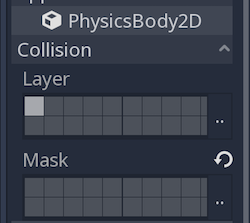
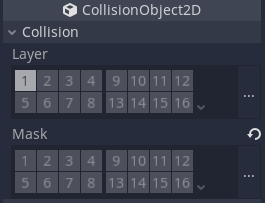
Update instructions for collision mask in Your first 2D game (#5485)

diff --git a/getting_started/first_2d_game/04.creating_the_enemy.rst b/getting_started/first_2d_game/04.creating_the_enemy.rst
@@ -26,7 +26,7 @@ the Player scene.
 
 In the :ref:`RigidBody2D <class_RigidBody2D>` properties, set ``Gravity Scale``
 to ``0``, so the mob will not fall downward. In addition, under the
-``PhysicsBody2D`` section, click the ``Mask`` property and uncheck the first
+:ref:`CollisionObject2D <class_CollisionObject2D>` section, click the ``Mask`` property and uncheck the first
 box. This will ensure the mobs do not collide with each other.
 
 .. image:: img/set_collision_mask.png
